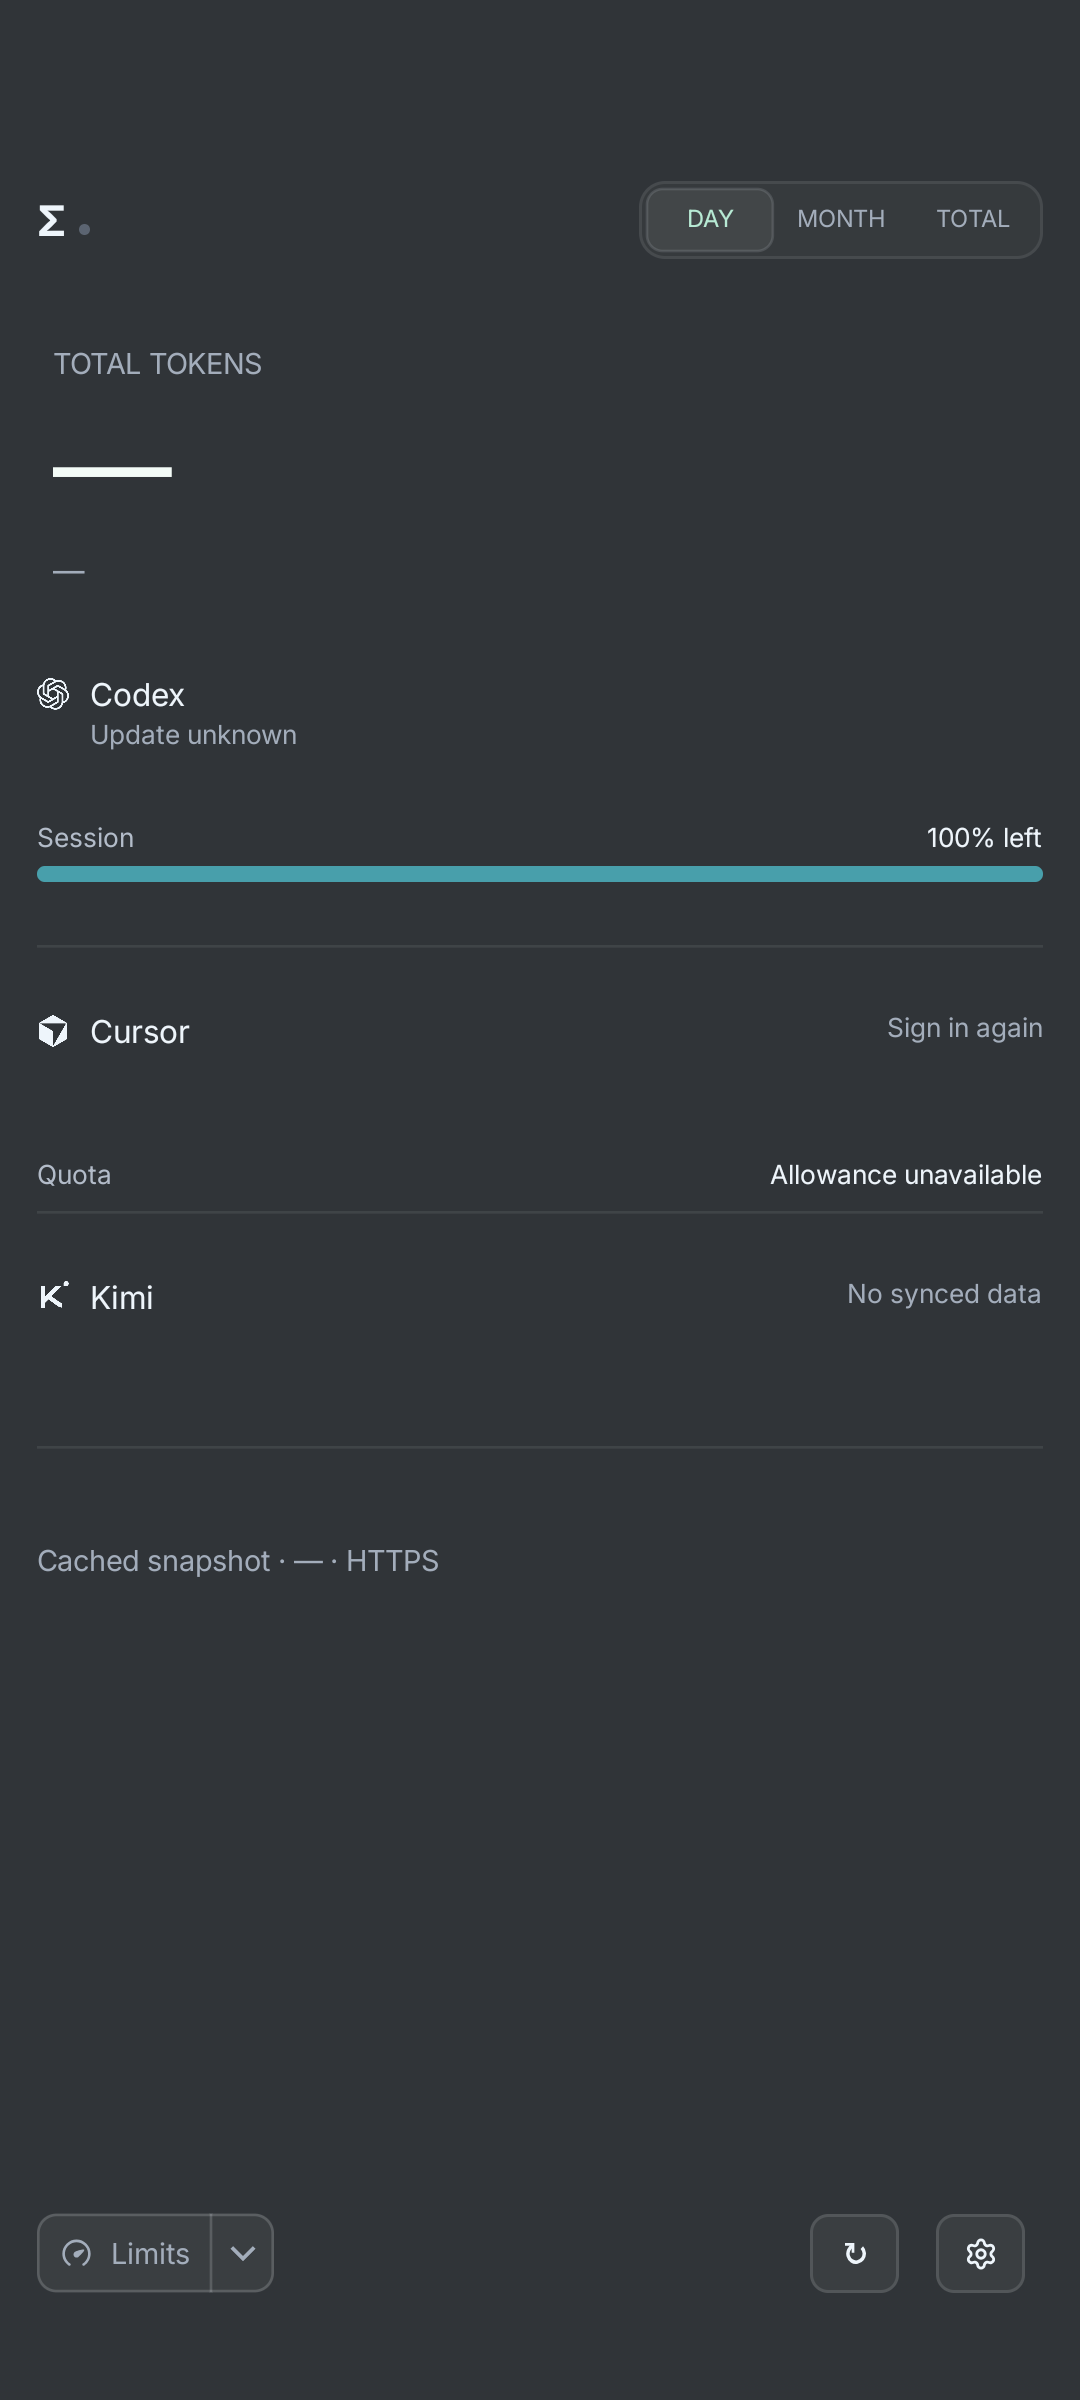
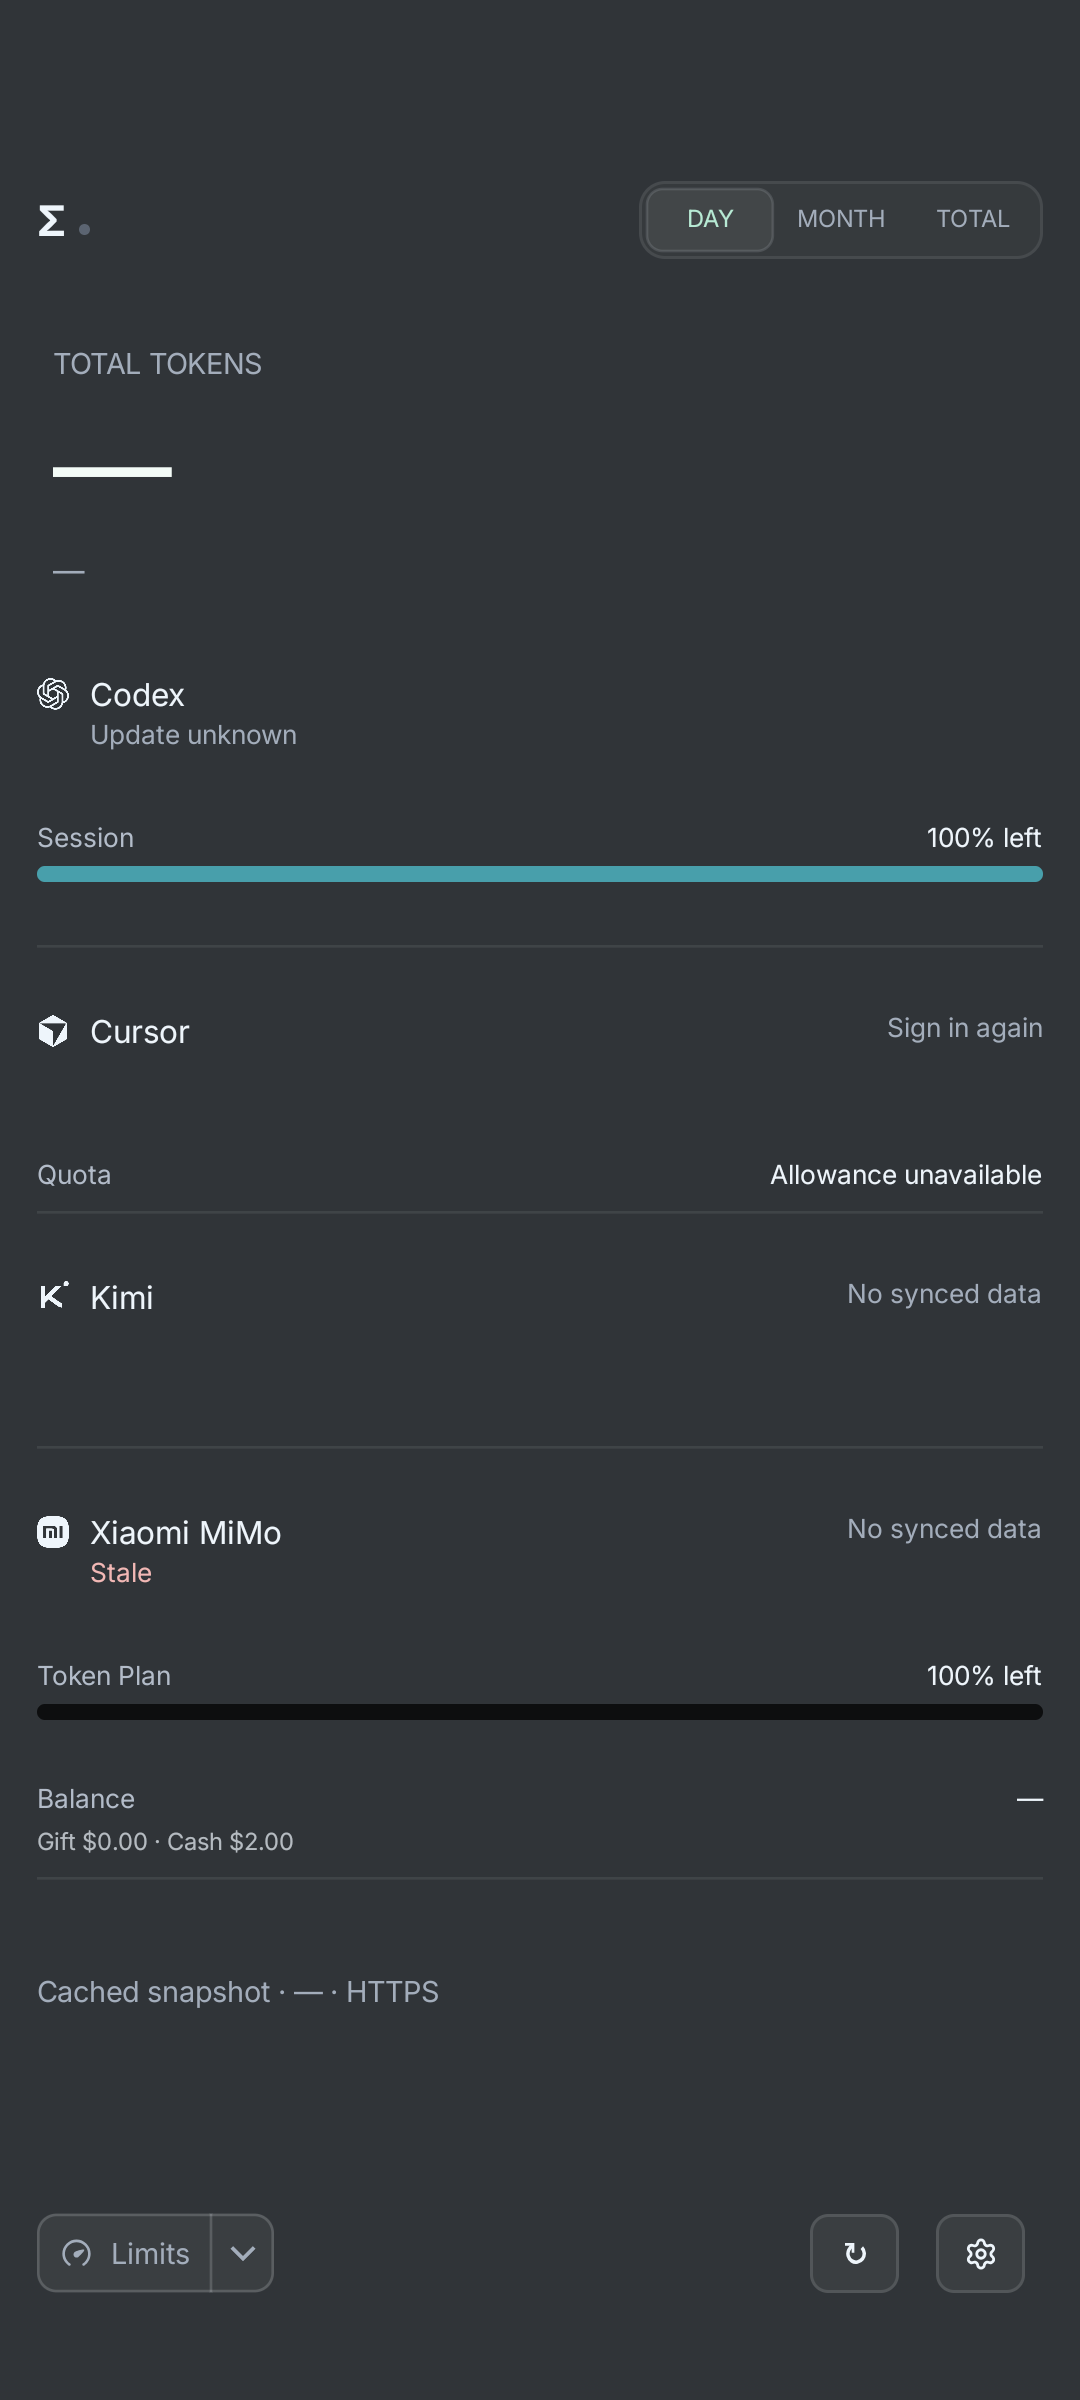
docs: record balance-only cache review verification

diff --git a/docs/VALIDATION.md b/docs/VALIDATION.md
@@ -2,7 +2,7 @@
 
 ## 当前开发候选验收：Android 0.74.0-02 / code80（未合并或发布）
 
-检查日期2026-10-19（Asia/Shanghai）；基线 `45a6156b581d5c9ae484bd34bab48824ddc0915b`，GitHub latest正式Android已核实v0.74.0-01/code79。本轮仅额度占位过滤、关于去重、直接日历与两个等宽描边入口；功能和边界见HANDOFF。最终生产/测试输入提交 `9a296df175856dce8b8f50a040787f15da7b80cf`；没有创建发行Tag或Release，没有操作NAS。
+检查日期2026-10-19（Asia/Shanghai）；基线 `45a6156b581d5c9ae484bd34bab48824ddc0915b`，GitHub latest正式Android已核实v0.74.0-01/code79。本轮仅额度占位过滤、关于去重、直接日历与两个等宽描边入口；功能和边界见HANDOFF。最终生产/测试输入提交 `f4f732f5034aafc1aba6ac7cefc8814f605b169e`；没有创建发行Tag或Release，没有操作NAS。
 
 | 本轮实跑 | 结果与证据边界 |
 |---|---|
@@ -13,7 +13,7 @@
 | 审查前包复核 | About宽度修正后追加6项通过：正式升级读取1、占位过滤界面1、纯手动更新4。正式0.74.0-01/code79先在独立只读API36 ARM64 emulator-5684用匹配旧测试包写公开合成加密缓存/历史及四份偏好，install -r到code80，未卸载/清数据；最终包仍保留UID及五份文件SHA，并成功解密。安装APK回读与最终候选完全相同。旧包数据准备1项单列，不算新增版测试。 |
 | 静态与范围 | 最终Lint 0错误、113警告、1提示；较0.74.0-01多11条，来自已移除界面的未使用文案资源，不宣称全为既有警告，不删除资源或抑制规则掩盖。671对英中资源、文档门禁/self-test、git diff检查通过。无依赖/认证/SSE/数据格式改动；README不变。 |
 
[2 lines of base64/hex data omitted]
 
 首次失败与修正保留：模拟器尚未boot completed时尝试安装被平台拒绝；确认启动完成后才安装正式旧包并准备数据，没有清数据。按钮文字最初按内容宽度取整触发溢出断言（应用e4601ee5…、测试d7b27435…），改为填满按钮可用宽度并居中，保留原字号/完整文字断言；诊断截图与日志在`/tmp/token07402-action-diagnostic.log`、`/tmp/token07402-actions-first-failure.log`。日历首次7项4过3失败（应用f51e36af…、测试c5a7dfbc…），旧测试仍点击已明确取消的All records并要求范围总量；改为验证这些元素不存在，保留月份/年份恢复、权威日期与具体数值断言，最终7项全过（`/tmp/token07402-calendar-first-failure.log`）。额度既有偏好重建测试首次没有打开实际设置页（应用f51e36af…、测试b98ee46f…），补真实设置导航，原偏好持久化断言保持，最终2项通过（`/tmp/token07402-limit-settings-first-failure.log`）。320dp首个矩阵About版本文字的内容宽度测量触发溢出（应用f51e36af…、测试388cbf7e…），改用剩余/整行宽度后12组通过，未放宽断言（`/tmp/token07402-about-first-failure.log`）。
 
@@ -21,7 +21,11 @@
 
 自动审查追加复核：PR #19在8c4bd0b发现P2——缺少kind但带remainingPercent/remaining/used/limit等合法数值的旧Hub窗口可能被误当空占位。新增六种缺kind数值/零值/余额消费样例，修复前LimitDisplay类8项1失败（`/tmp/token07402-missing-kind-before.log`及对应first-failure.xml）；修复后同时识别实际额度数值，四类领域27项全过。标准构建及Lint成功（`/tmp/token07402-review-fix-build2.log`），一次把--tests放在lint任务后导致选项归属错误的工具准备失败仍保留在review-fix-build.log，未改测试门槛。
 
-最终审查修正输入为9a296df。全新只读API36实例中重新安装正式code79、匹配旧测试包准备合成资料，再install -r到上列ca3ce244…候选；最终5项全过：SignedUpgrade1、NavigationPolish2（增加缺kind的真实零值账户可见断言）、LimitDisplay2。日志为`/tmp/token07402-review-upgrade-final.log`、review-navigation-final.log、review-limit-final.log，测试包为上列6f939bd6…。实际安装包回读与候选一致，签名不变。审查仅改额度过滤与其测试；About、Dashboard、History及窗口检查方法源码保持，继承7e5785f3…包的12组24项局部布局结果，不冒称ca3重新跑过全部矩阵；此前完整531项和最终26项记录也按各自阶段保留，不冒称新增测试已跑完整532项。已处理该确认问题，后续审查状态以最新PR提交为准。
+首轮审查修正输入为9a296df。全新只读API36实例中重新安装正式code79、匹配旧测试包准备合成资料，再install -r到上列ca3ce244…候选；最终5项全过：SignedUpgrade1、NavigationPolish2（增加缺kind的真实零值账户可见断言）、LimitDisplay2。日志为`/tmp/token07402-review-upgrade-final.log`、review-navigation-final.log、review-limit-final.log，测试包为上列6f939bd6…。实际安装包回读与候选一致，签名不变。审查仅改额度过滤与其测试；About、Dashboard、History及窗口检查方法源码保持，继承7e5785f3…包的12组24项局部布局结果，不冒称ca3重新跑过全部矩阵；此前完整531项和最终26项记录也按各自阶段保留，不冒称新增测试已跑完整532项。已处理该确认问题，后续审查状态以最新PR提交为准。
+
+二次复审追加：3c7a7d6发现另一P2——只保留在displayRecord内的giftBalance/cashBalance、套餐及分时消费可能被过滤。按现有显示合同识别余额数值（含真实零）、套餐过期、可显示的分组/到期信息、tranches、usageSummary、重置次数和balanceUsd；币种/周期等空元信息、畸形或非有限数值不作为实际读数，不递归接纳任意未知JSON。无kind的无限额度明示也保留。16种投影缓存及3种空/异常对照加入回归，修复前该类9项1失败，首次证据为`/tmp/token07402-balance-before.log`与balance-first-failure.xml；修复后四类领域28项全部通过。
+
+最终产品输入f4f732f，上列c2d367ca…APK及8a68a15d…测试APK标准构建/Lint成功，0错误/113警告/1提示不变（`/tmp/token07402-balance-fix-build.log`）。最终包重新执行5项全部通过：升级读取1、NavigationPolish2、LimitDisplay2；在额度页验证缺kind真零账户仍可见，以及仅有赠送/现金余额和套餐数据的缓存账户确实显示100%套餐剩余额度。独立只读模拟器重新用正式code79与匹配旧测试包准备资料，正常覆盖到code80，UID及五份加密/偏好文件保持；实际安装包回读与候选相同，签名再次核对。日志为balance-upgrade-seed.log、balance-upgrade-final.log、balance-navigation-final.log及balance-limit-final.log，均位于`/tmp/token07402-`前缀。本次复审只修改额度存在性判定与相关测试，继续明确继承前述未改布局的矩阵，不重复未受影响整套。
 
 未验证：真机/私有数据、生产Hub与真实账户。额度占位判定基于Hub状态和已有额度/余额，不声称生产响应已联调；不把配置/余额为零的账户误当未使用。当前未合并或发布；最终授权范围待用户确认。与本次无关的既有未使用资源和其他待办不扩入修复。
 

diff --git a/docs/HANDOFF.md b/docs/HANDOFF.md
@@ -2,14 +2,14 @@
 
 ## 开发候选：Android 0.74.0-02 / code80（四项界面修正，PR验收完成）
 
-2026-10-19（Asia/Shanghai），从主分支 `45a6156b581d5c9ae484bd34bab48824ddc0915b` 和最新正式v0.74.0-01/code79接续，桌面固定参考仍为v0.74.0/cbed591，fullyAligned=false不变。产品与测试输入提交 `9a296df175856dce8b8f50a040787f15da7b80cf`。本次只处理用户指定的四项问题：
+2026-10-19（Asia/Shanghai），从主分支 `45a6156b581d5c9ae484bd34bab48824ddc0915b` 和最新正式v0.74.0-01/code79接续，桌面固定参考仍为v0.74.0/cbed591，fullyAligned=false不变。产品与测试输入提交 `f4f732f5034aafc1aba6ac7cefc8814f605b169e`。本次只处理用户指定的四项问题：
 
 - 额度二级页过滤disabled/notConfigured/noSyncedData空占位账户，保留有额度/余额的缓存、真实零值，以及已配置账户的认证/限流等异常提示；不按当前周期Token阈值猜测使用状态，不修改Hub原始数据或额度设置目录。
 - 关于应用保留应用版本、桌面参考版本、纯手动更新和许可证入口；删除重复Hub构建/状态及冗余对齐提示。版本文字使用实际可用宽度，窄屏/大字自然换行。
 - 历史记录移除7/30/90/365天和全部记录快捷选项，直接显示日/月日历；日历不再受滚动范围限制，保留旧日期、未知/零值区分、状态恢复和Hub日期权威。
 - 图表与活动从记录页底部移到上一级“记录明细”右侧，两个描边按钮等宽、同高、撑满一行且触控至少48dp。各自打开独立内容，返回原仪表板页；图表保留原30天默认，原历史读取合同不变。
 
-完整531项JVM、审查修正后27项领域定向、受影响24项界面回归及12组24项窗口检查已通过；宽度修正后6项及审查修正后5项定向检查通过。详细实跑/继承范围、113条Lint警告、首次失败及APK指纹只见VALIDATION。正式版仍为v0.74.0-01；本次开发/测试/PR已获授权，“且合并或发布”的最终范围已请求用户选择，未获明确选择前不执行合并/发布。未操作真机、NAS或桌面运行服务，README未修改。
+完整531项JVM、审查修正后28项领域定向、受影响24项界面回归及12组24项窗口检查已通过；宽度修正后6项及审查修正后5项定向检查通过。详细实跑/继承范围、113条Lint警告、首次失败及APK指纹只见VALIDATION。正式版仍为v0.74.0-01；本次开发/测试/PR已获授权，“且合并或发布”的最终范围已请求用户选择，未获明确选择前不执行合并/发布。未操作真机、NAS或桌面运行服务，README未修改。
 
 回滚本次代码即可；不涉及缓存、偏好格式、签名、包名或生产协议迁移。后续只检查本PR最新提交的自动审查/CI并处理确认问题，不扩大范围。
 
